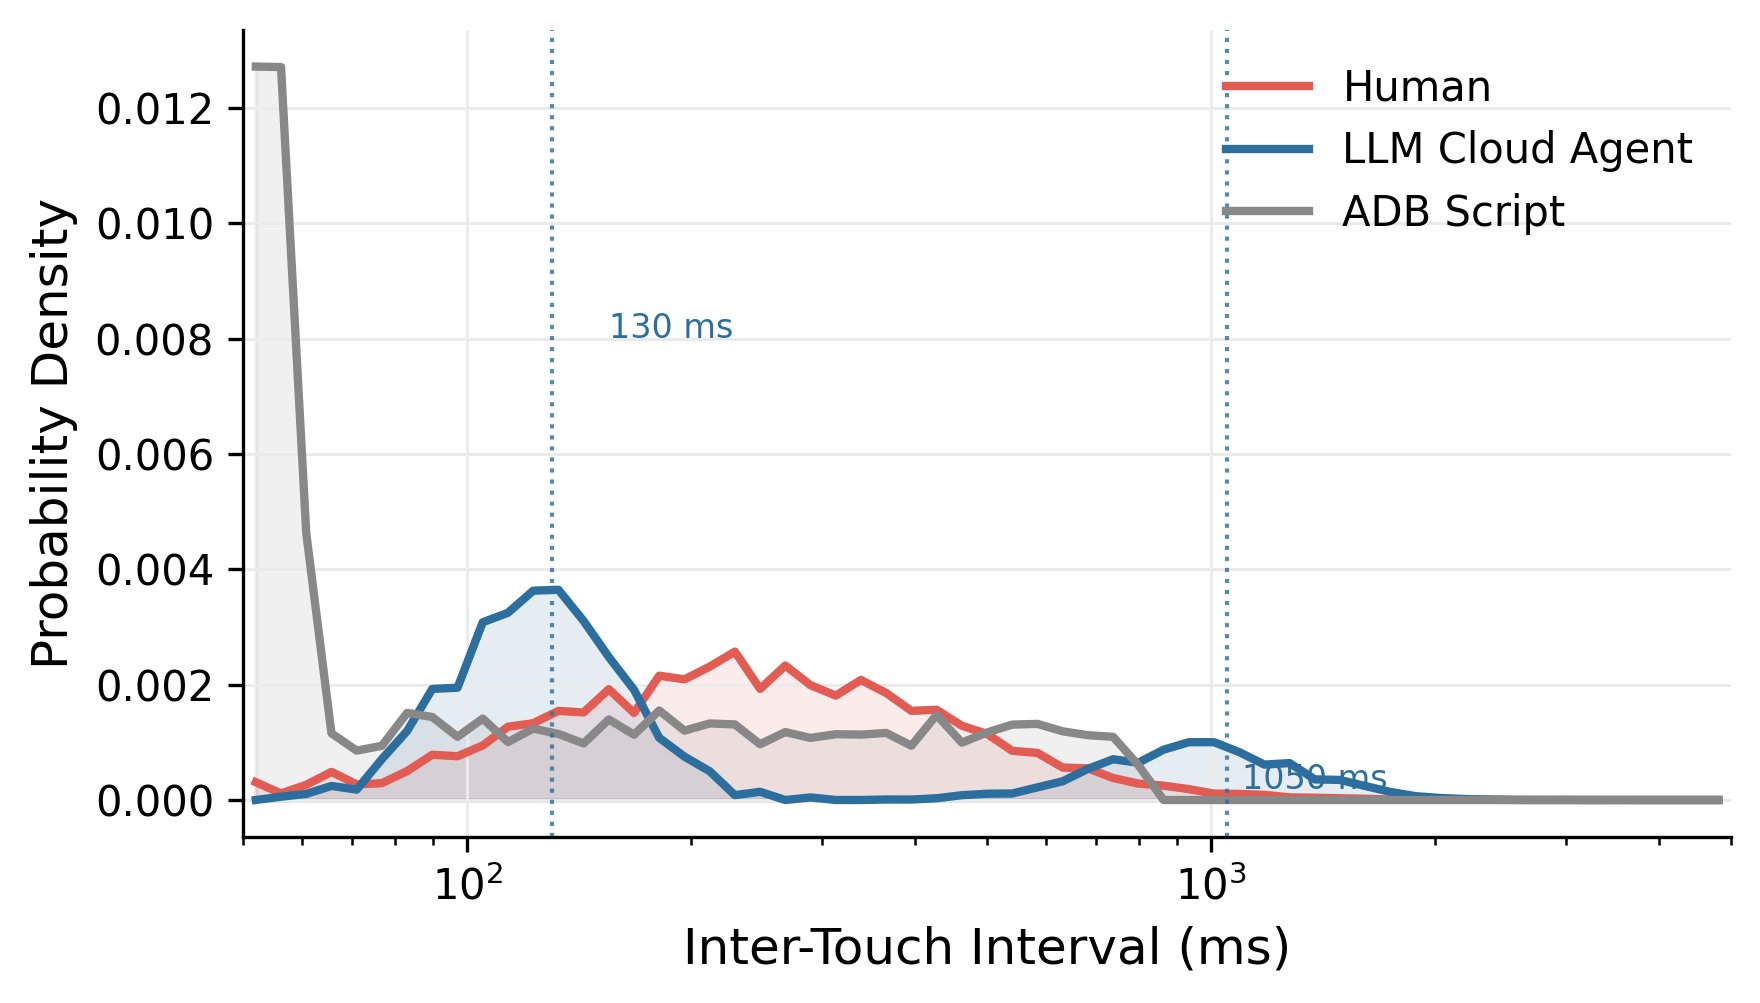
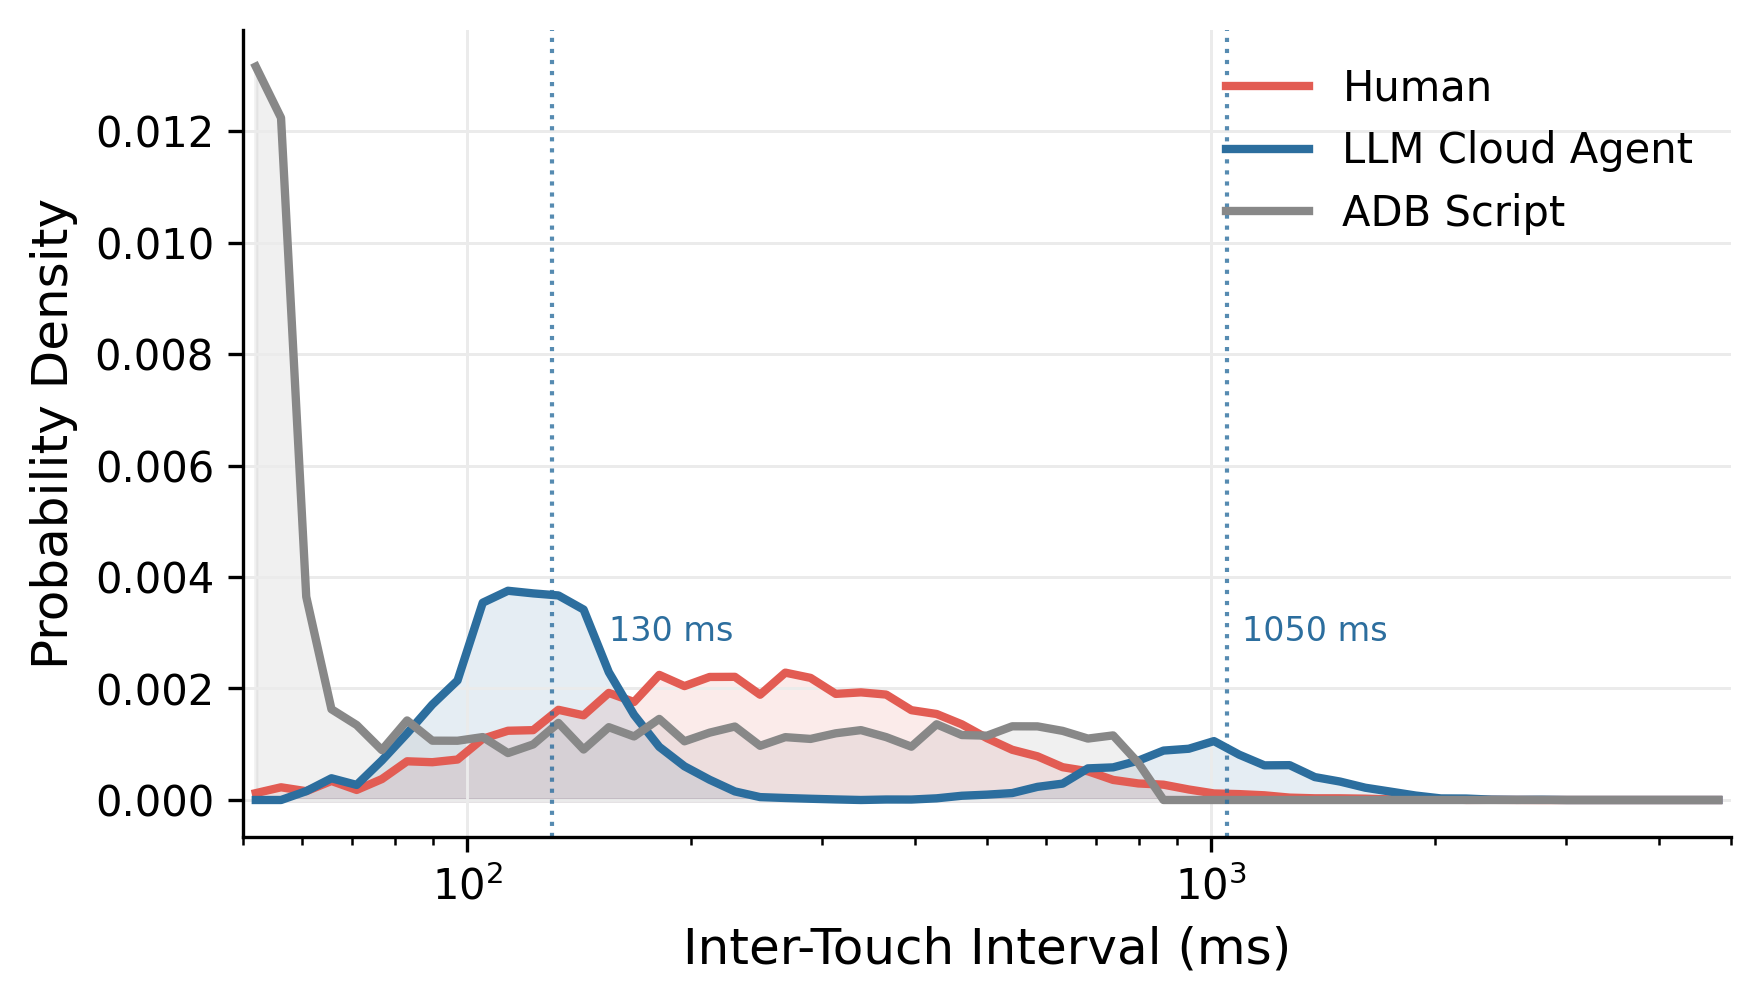
Fix fig_obs2: align 1050ms label to same height as 130ms label

diff --git a/figures/draw_all.py b/figures/draw_all.py
@@ -134,9 +134,11 @@ def fig_obs2():
     ax.axvline(130,  color=C2, lw=1.0, ls=':', alpha=0.8)
     ax.axvline(1050, color=C2, lw=1.0, ls=':', alpha=0.8)
     ax.axvline(47,   color='#888888', lw=1.0, ls='--', alpha=0.7)
-    ax.text(155,  ax.get_ylim()[1]*0.6 if ax.get_ylim()[1] > 0 else 0.001,
-            '130 ms', fontsize=8, color=C2)
-    ax.text(1100, 0.0002, '1050 ms', fontsize=8, color=C2)
+    _c, _e = np.histogram(llm_samples, bins=bins, density=True)
+    _cx = np.sqrt(_e[:-1] * _e[1:])
+    _y_label = _c[np.argmin(np.abs(_cx - 130))] * 0.78
+    ax.text(155,  _y_label, '130 ms',  fontsize=8, color=C2)
+    ax.text(1100, _y_label, '1050 ms', fontsize=8, color=C2)
 
     ax.set_xscale('log')
     ax.set_xlabel('Inter-Touch Interval (ms)')